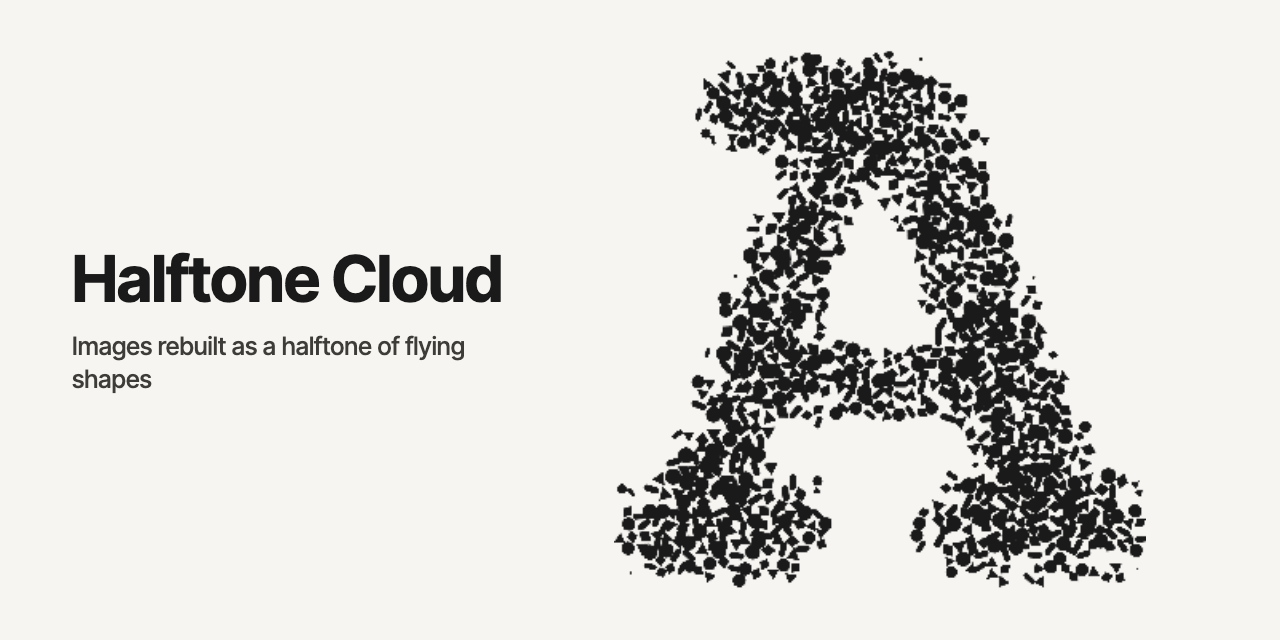
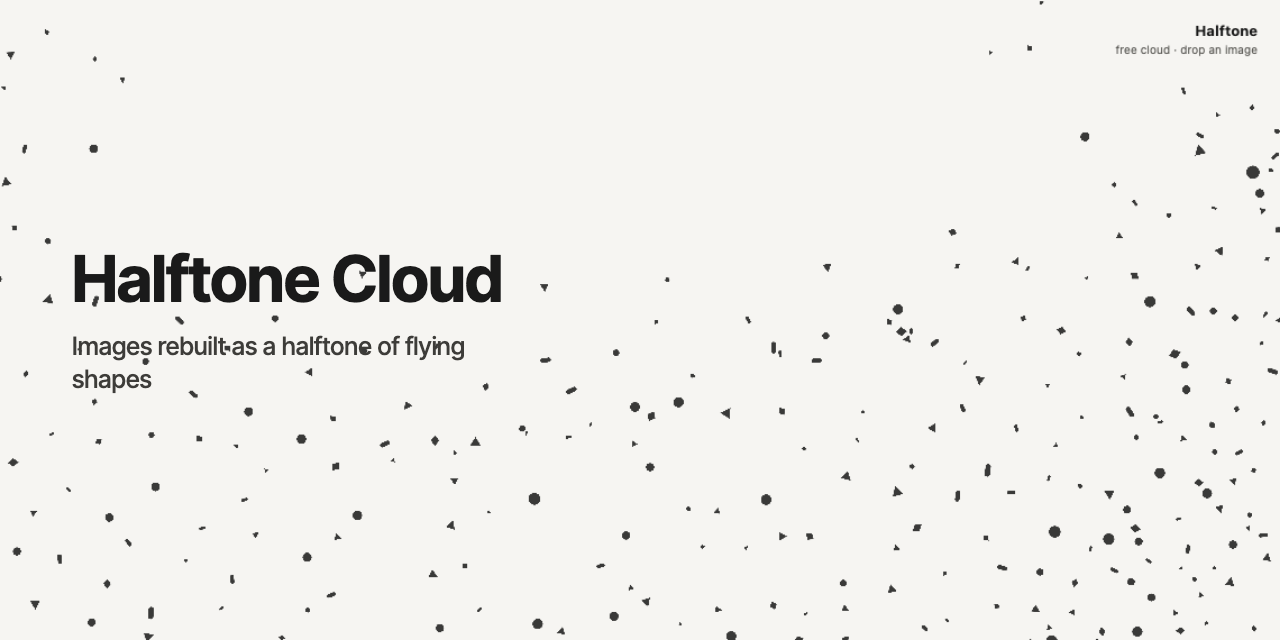
Start in the floating cloud, as it was meant to; new preview and share card

diff --git a/index.html b/index.html
@@ -1404,6 +1404,6 @@ window.__halftone = {
   selftest: selftest
 };
 </script>
-<script>(function(){function u(r){var a=+r.min||0,b=+r.max||100,v=+r.value;r.style.setProperty('--p',((v-a)/((b-a)||1)*100)+'%')}function all(){document.querySelectorAll('input[type=range]').forEach(u)}document.addEventListener('input',function(e){if(e.target&&e.target.type==='range')u(e.target)});setInterval(all,250);all()})();</script><script>addEventListener('load',function(){setTimeout(function(){var b=document.getElementById('demoAdd');if(b&&!document.querySelector('#srcList *'))b.click()},300)})</script>
+<script>(function(){function u(r){var a=+r.min||0,b=+r.max||100,v=+r.value;r.style.setProperty('--p',((v-a)/((b-a)||1)*100)+'%')}function all(){document.querySelectorAll('input[type=range]').forEach(u)}document.addEventListener('input',function(e){if(e.target&&e.target.type==='range')u(e.target)});setInterval(all,250);all()})();</script>
 </body>
 </html>
